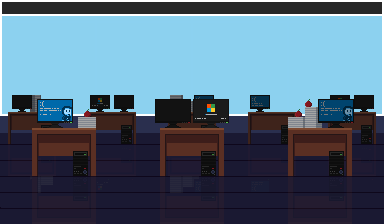
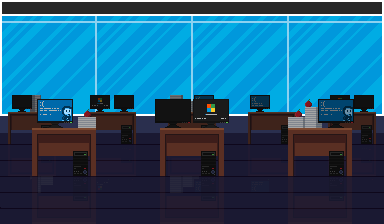
Add Twitch client, Players, Items and other minor changes

diff --git a/src/scenes/GameScene.js b/src/scenes/GameScene.js
@@ -1,8 +1,9 @@
 import Phaser from "phaser";
 import { WIDTH, HEIGHT, SCALE, STREAMERS } from "@/modules/constants.js";
 import { HudContainer } from "@/objects/HudContainer.js";
-
-const BACKGROUNDS_PATH = "images/backgrounds";
+import { Player } from "@/objects/Player.js";
+import { Item } from "@/objects/Item.js";
+import { TwitchClient } from "@/objects/TwitchClient.js";
 
 export class GameScene extends Phaser.Scene {
   constructor() {
@@ -10,11 +11,16 @@ export class GameScene extends Phaser.Scene {
       key: "GameScene",
       active: false
     });
+
+    this.client = new TwitchClient();
+    this.items = [];
   }
 
   preload() {
     console.log("preload game");
-    this.load.image("bgroom", `${BACKGROUNDS_PATH}/office.png`);
+    this.load.image("bgroom", "images/backgrounds/office.png");
+    this.load.image("time-widget", "images/ui/time-widget.png");
+    this.load.image("ie", "images/items/internet-explorer.png");
 
     STREAMERS.forEach(streamer => {
       const name = streamer.toLowerCase();
@@ -31,19 +37,41 @@ export class GameScene extends Phaser.Scene {
 
     this.bgRoom.preFX.addBlur(2, 1, 1, 1, 0xffffff, 8);
 
-    this.player1 = this.add.image(WIDTH / 4, HEIGHT, this.playerName1)
-      .setOrigin(0, 1)
-      .setScale(SCALE * 3);
-
-    this.player2 = this.add.image((WIDTH / 4) * 2, HEIGHT, this.playerName2)
-      .setOrigin(0, 1)
-      .setFlipX(true)
-      .setScale(SCALE * 3);
+    this.player1 = new Player(this, WIDTH / 5, HEIGHT, this.playerName1);
+    this.player2 = new Player(this, (WIDTH / 4) * 2, HEIGHT, this.playerName2).setFlipX(true);
 
     const hud = new HudContainer(this, 0, 0);
+    this.physics.world.setBounds(0, 0, WIDTH, HEIGHT);
+
+    this.scene.scene.time.addEvent({
+      delay: 1000,
+      loop: true,
+      callback: () => {
+        const r = Phaser.Math.Between(1, 15);
+        r === 1 && this.player1.moveLeft();
+        r === 2 && this.player1.moveRight();
+        r === 3 && this.player2.moveLeft();
+        r === 4 && this.player2.moveRight();
+      }
+    });
+
+    this.client.on("animate", (username) => {
+      const x = [-150, WIDTH + 150][Phaser.Math.Between(0, 1)];
+      const y = Phaser.Math.Between(110, 250);
+      const item = new Item(this, x, y, "ie");
+      this.items.push(item);
+    });
   }
 
   update() {
-    // console.log("update game");
+    this.physics.world.overlap([this.player1, this.player2], this.items, (player, item) => {
+      player.overlap(item);
+    });
+
+    const isTouchPlayer1 = this.player1.body.touching.none === false;
+    !isTouchPlayer1 && this.player1.clearTint();
+
+    const isTouchPlayer2 = this.player2.body.touching.none === false;
+    !isTouchPlayer2 && this.player2.clearTint();
   }
 }

diff --git a/src/objects/HudContainer.js b/src/objects/HudContainer.js
@@ -1,6 +1,7 @@
 import Phaser from "phaser";
 import { WIDTH } from "@/modules/constants.js";
 import { HudPlayer } from "@/objects/HudPlayer.js";
+import { baseTimeStyle } from "@/objects/fontStyles.js";
 
 export class HudContainer extends Phaser.GameObjects.Container {
   /**
@@ -20,8 +21,33 @@ export class HudContainer extends Phaser.GameObjects.Container {
     this.players = [];
     const playerName1 = "afor_digital"; // this.scene.registry.get("player1");
     const playerName2 = "uxanarangel"; // this.scene.registry.get("player2");
-    const player1 = new HudPlayer(scene, x, y, { playerNumber: 1, playerName: playerName1 });
-    const player2 = new HudPlayer(scene, x + 175, y, { playerNumber: 2, playerName: playerName2 });
+    const player1 = new HudPlayer(scene, x, y, {
+      playerNumber: 1,
+      playerName: playerName1
+    });
+    const player2 = new HudPlayer(scene, x + 175, y, {
+      playerNumber: 2,
+      playerName: playerName2
+    });
     this.players.push(player1, player2);
+
+    const timeWidget = new Phaser.GameObjects.Image(scene, 402, 50, "time-widget")
+      .setScale(2);
+    const timeText = new Phaser.GameObjects.Text(scene, 368, 25, "99", baseTimeStyle);
+    this.add([timeWidget, timeText]);
+
+    this.scene.tweens.addCounter({
+      from: 99,
+      to: 0,
+      duration: 200000,
+      ease: "Linear",
+      onUpdate: (tween) => {
+        const value = String(~~tween.getValue()).padStart(2, "0");
+        timeText.setText(value);
+      },
+      onComplete: () => {
+        console.log("Se agotó el tiempo");
+      }
+    });
   }
 }

diff --git a/src/objects/EnergyBar.js b/src/objects/EnergyBar.js
@@ -51,7 +51,9 @@ export class EnergyBar extends Phaser.GameObjects.Container {
     this.add(gradientTexture);
     this.gradient = gradientTexture;
 
-    setTimeout(() => this.setValue(50), 2000);
+    // this.changeColor();
+
+    setTimeout(() => this.setValue(75), 2000);
   }
 
   setFlipX(value) {
@@ -70,7 +72,6 @@ export class EnergyBar extends Phaser.GameObjects.Container {
     const c1 = Phaser.Display.Color.IntegerToColor(0x99e65f);
     const c2 = Phaser.Display.Color.IntegerToColor(0xfbbe0e);
 
-    /*
     this.scene.tweens.addCounter({
       from: 0,
       to: 100,
@@ -81,9 +82,9 @@ export class EnergyBar extends Phaser.GameObjects.Container {
         this.bar.fillColor = Phaser.Display.Color.GetColor(r, g, b);
       }
     });
-    */
-    const { r, g, b } = Phaser.Display.Color.Interpolate.ColorWithColor(c1, c2, 100);
-    this.bar.fillColor = Phaser.Display.Color.GetColor(r, g, b);
+
+    // const { r, g, b } = Phaser.Display.Color.Interpolate.ColorWithColor(c1, c2, 100);
+    // this.bar.fillColor = Phaser.Display.Color.GetColor(r, g, b);
   }
 
   setValue(value) {
@@ -104,7 +105,6 @@ export class EnergyBar extends Phaser.GameObjects.Container {
         },
         onComplete: () => {
           this.energy = value;
-          this.changeColor();
         }
       });
     }

diff --git a/src/objects/Player.js b/src/objects/Player.js
@@ -1,0 +1,49 @@
+import Phaser from "phaser";
+import { SCALE } from "@/modules/constants.js";
+
+export class Player extends Phaser.GameObjects.Image {
+  /**
+   *
+   * @param {Phaser.Scene} scene
+   */
+  constructor(scene, x, y, texture) {
+    super(scene, x, y, texture);
+    this.scene = scene;
+
+    this.setOrigin(0, 1)
+      .setScale(SCALE * 4);
+
+    this.scene.add.existing(this);
+    this.scene.physics.world.enable(this);
+
+    this.body.setCollideWorldBounds();
+
+    this.minX = this.x - 60;
+    this.maxX = this.x + 60;
+  }
+
+  moveLeft() {
+    if (this.x < this.minX) return;
+
+    this.scene.tweens.add({
+      targets: this,
+      x: this.x - 20,
+      duration: 250
+    });
+  }
+
+  moveRight() {
+    if (this.x > this.minX) return;
+
+    this.scene.tweens.add({
+      targets: this,
+      x: this.x + 20,
+      duration: 250
+    });
+  }
+
+  overlap(item) {
+    // console.log("El item", item, ` ha colisionado con ${this.texture.key}`);
+    this.setTintFill(0x423383, 0x184148, 0x143345, 0x133834);
+  }
+}

diff --git a/src/objects/TwitchClient.js b/src/objects/TwitchClient.js
@@ -1,0 +1,32 @@
+import tmi from "tmi.js";
+
+const CHANNEL = "manzdev";
+
+export class TwitchClient {
+  client;
+  events = [];
+
+  constructor() {
+    this.client = new tmi.Client({ channels: [CHANNEL] });
+    this.client.connect();
+
+    this.client.on("message", (channel, tags, message, self) => {
+      const username = tags.username;
+      const nickname = tags["display-name"];
+      const command = message.trim().toLowerCase().split(" ")[0];
+
+      const isAnimateCommand = command === "!animar";
+
+      if (isAnimateCommand) {
+        const animateEvents = this.events
+          .filter(event => event.name === "animate");
+
+        animateEvents.forEach(events => events.fx(username));
+      }
+    });
+  }
+
+  on(name, fx) {
+    this.events.push({ name, fx });
+  }
+}

diff --git a/src/objects/Item.js b/src/objects/Item.js
@@ -1,0 +1,25 @@
+import Phaser from "phaser";
+
+export class Item extends Phaser.GameObjects.Image {
+  /**
+   *
+   * @param {Phaser.Scene} scene
+   */
+  constructor(scene, x, y, texture) {
+    super(scene, x, y, texture);
+    this.scene = scene;
+
+    this.setOrigin(0).setScale(2);
+    this.scene.add.existing(this);
+
+    this.scene.physics.world.enable(this);
+
+    const vx = (x < 0 ? 1 : -1) * Phaser.Math.Between(50, 200);
+    const bounce = 0.5 + Math.min(Math.random(), 0.5);
+
+    this.body
+      .setCollideWorldBounds()
+      .setVelocityX(vx)
+      .setBounce(bounce);
+  }
+}

diff --git a/src/index.js b/src/index.js
@@ -15,7 +15,16 @@ const config = {
   scale: {
     zoom: ZOOM
   },
-  /* physics */
+  physics: {
+    default: "arcade",
+    arcade: {
+      debug: true,
+      gravity: {
+        y: 200
+      }
+    }
+  },
+
   pixelArt: true,
   backgroundColor: "#000000",
   scene: [SelectPlayerScene, GameScene],
@@ -28,7 +37,7 @@ const config = {
 
 WebFont.load({
   custom: {
-    families: ["EnterCommand"],
+    families: ["EnterCommand", "Pixellari"],
   },
   active: () => {
     // eslint-disable-next-line

diff --git a/src/objects/fontStyles.js b/src/objects/fontStyles.js
@@ -41,3 +41,22 @@ export const baseHudStyle = {
     fill: false
   },
 };
+
+/**
+ * @type {Phaser.Types.GameObjects.Text.TextStyle}
+ */
+export const baseTimeStyle = {
+  fontFamily: "Pixellari",
+  fontSize: 55,
+  // fixedWidth: 66,
+  padding: {
+    x: 6
+  },
+  align: "left",
+  shadow: {
+    offsetY: 4,
+    color: "#000000aa",
+    blur: 0,
+    fill: true
+  }
+};

diff --git a/src/objects/BlockPlayerContainer.js b/src/objects/BlockPlayerContainer.js
@@ -107,6 +107,7 @@ export class BlockPlayerContainer extends Phaser.GameObjects.Container {
       this.scene.registry.set("player1", this.players[0].playerName.text);
       this.scene.registry.set("player2", this.players[1].playerName.text);
 
+      this.scene.sound.get("music.select").stop();
       this.scene.scene.start("GameScene");
     }
   }

diff --git a/src/index.css b/src/index.css
@@ -5,6 +5,13 @@
     url("fonts/entercommand.woff") format("woff");
 }
 
+@font-face {
+  font-family: Pixellari;
+  src:
+    url("fonts/pixellari.woff2") format("woff2"),
+    url("fonts/pixellari.woff") format("woff");
+}
+
 body {
   background: #171717;
 }
